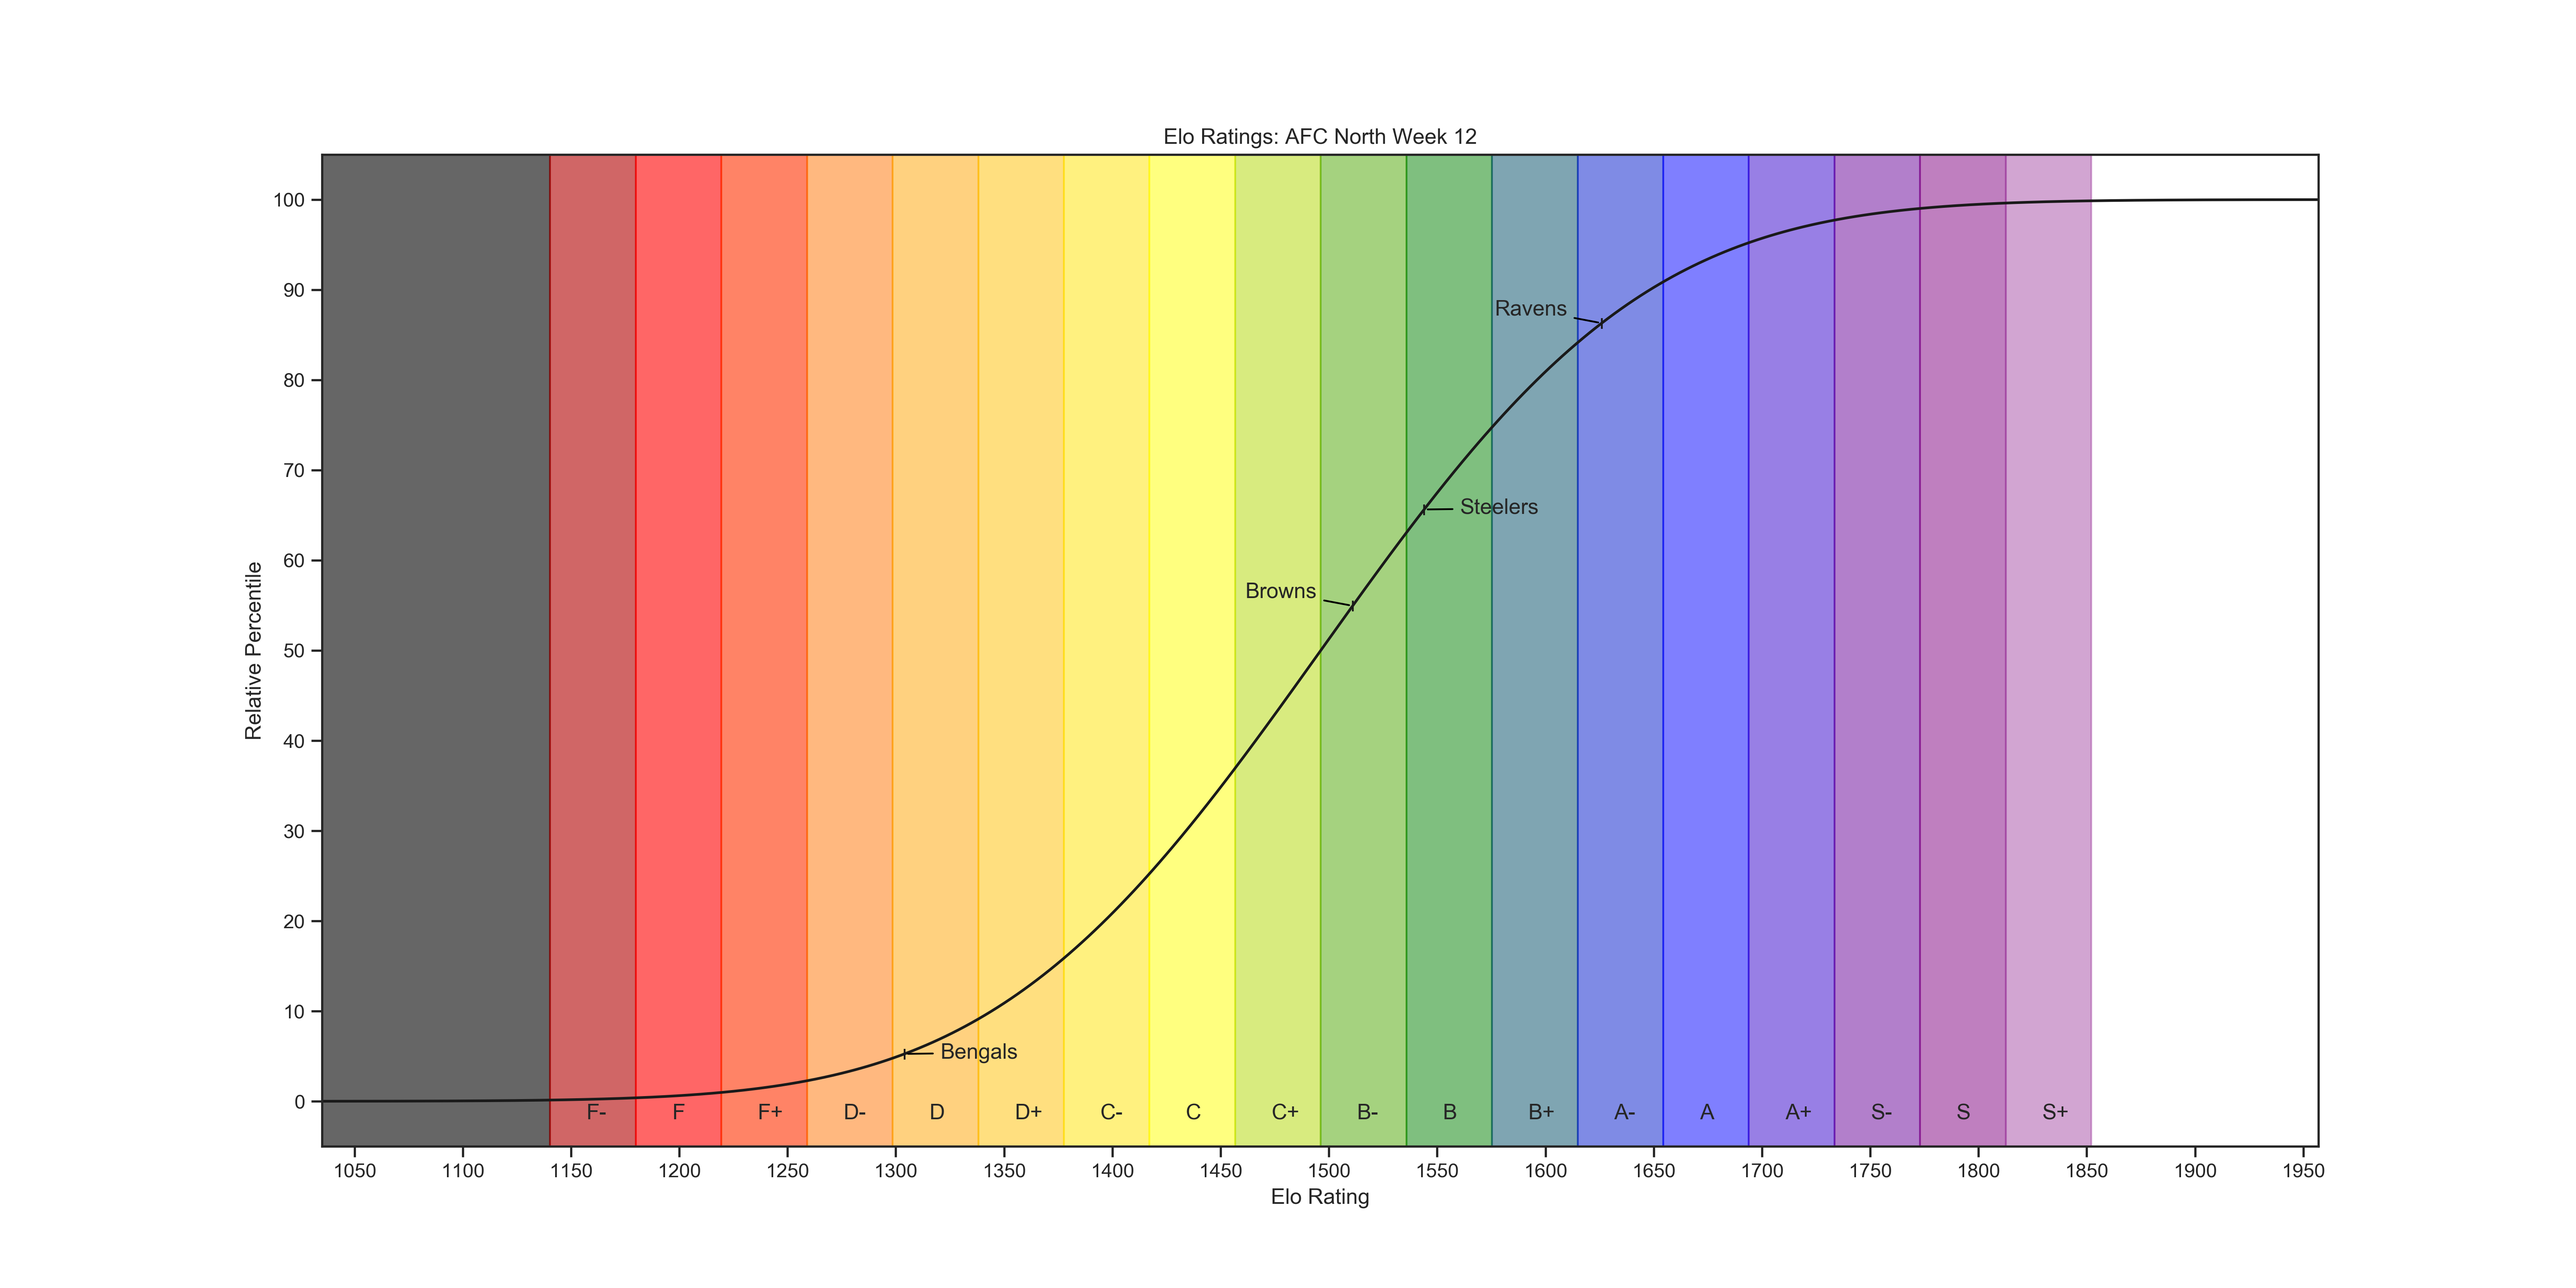
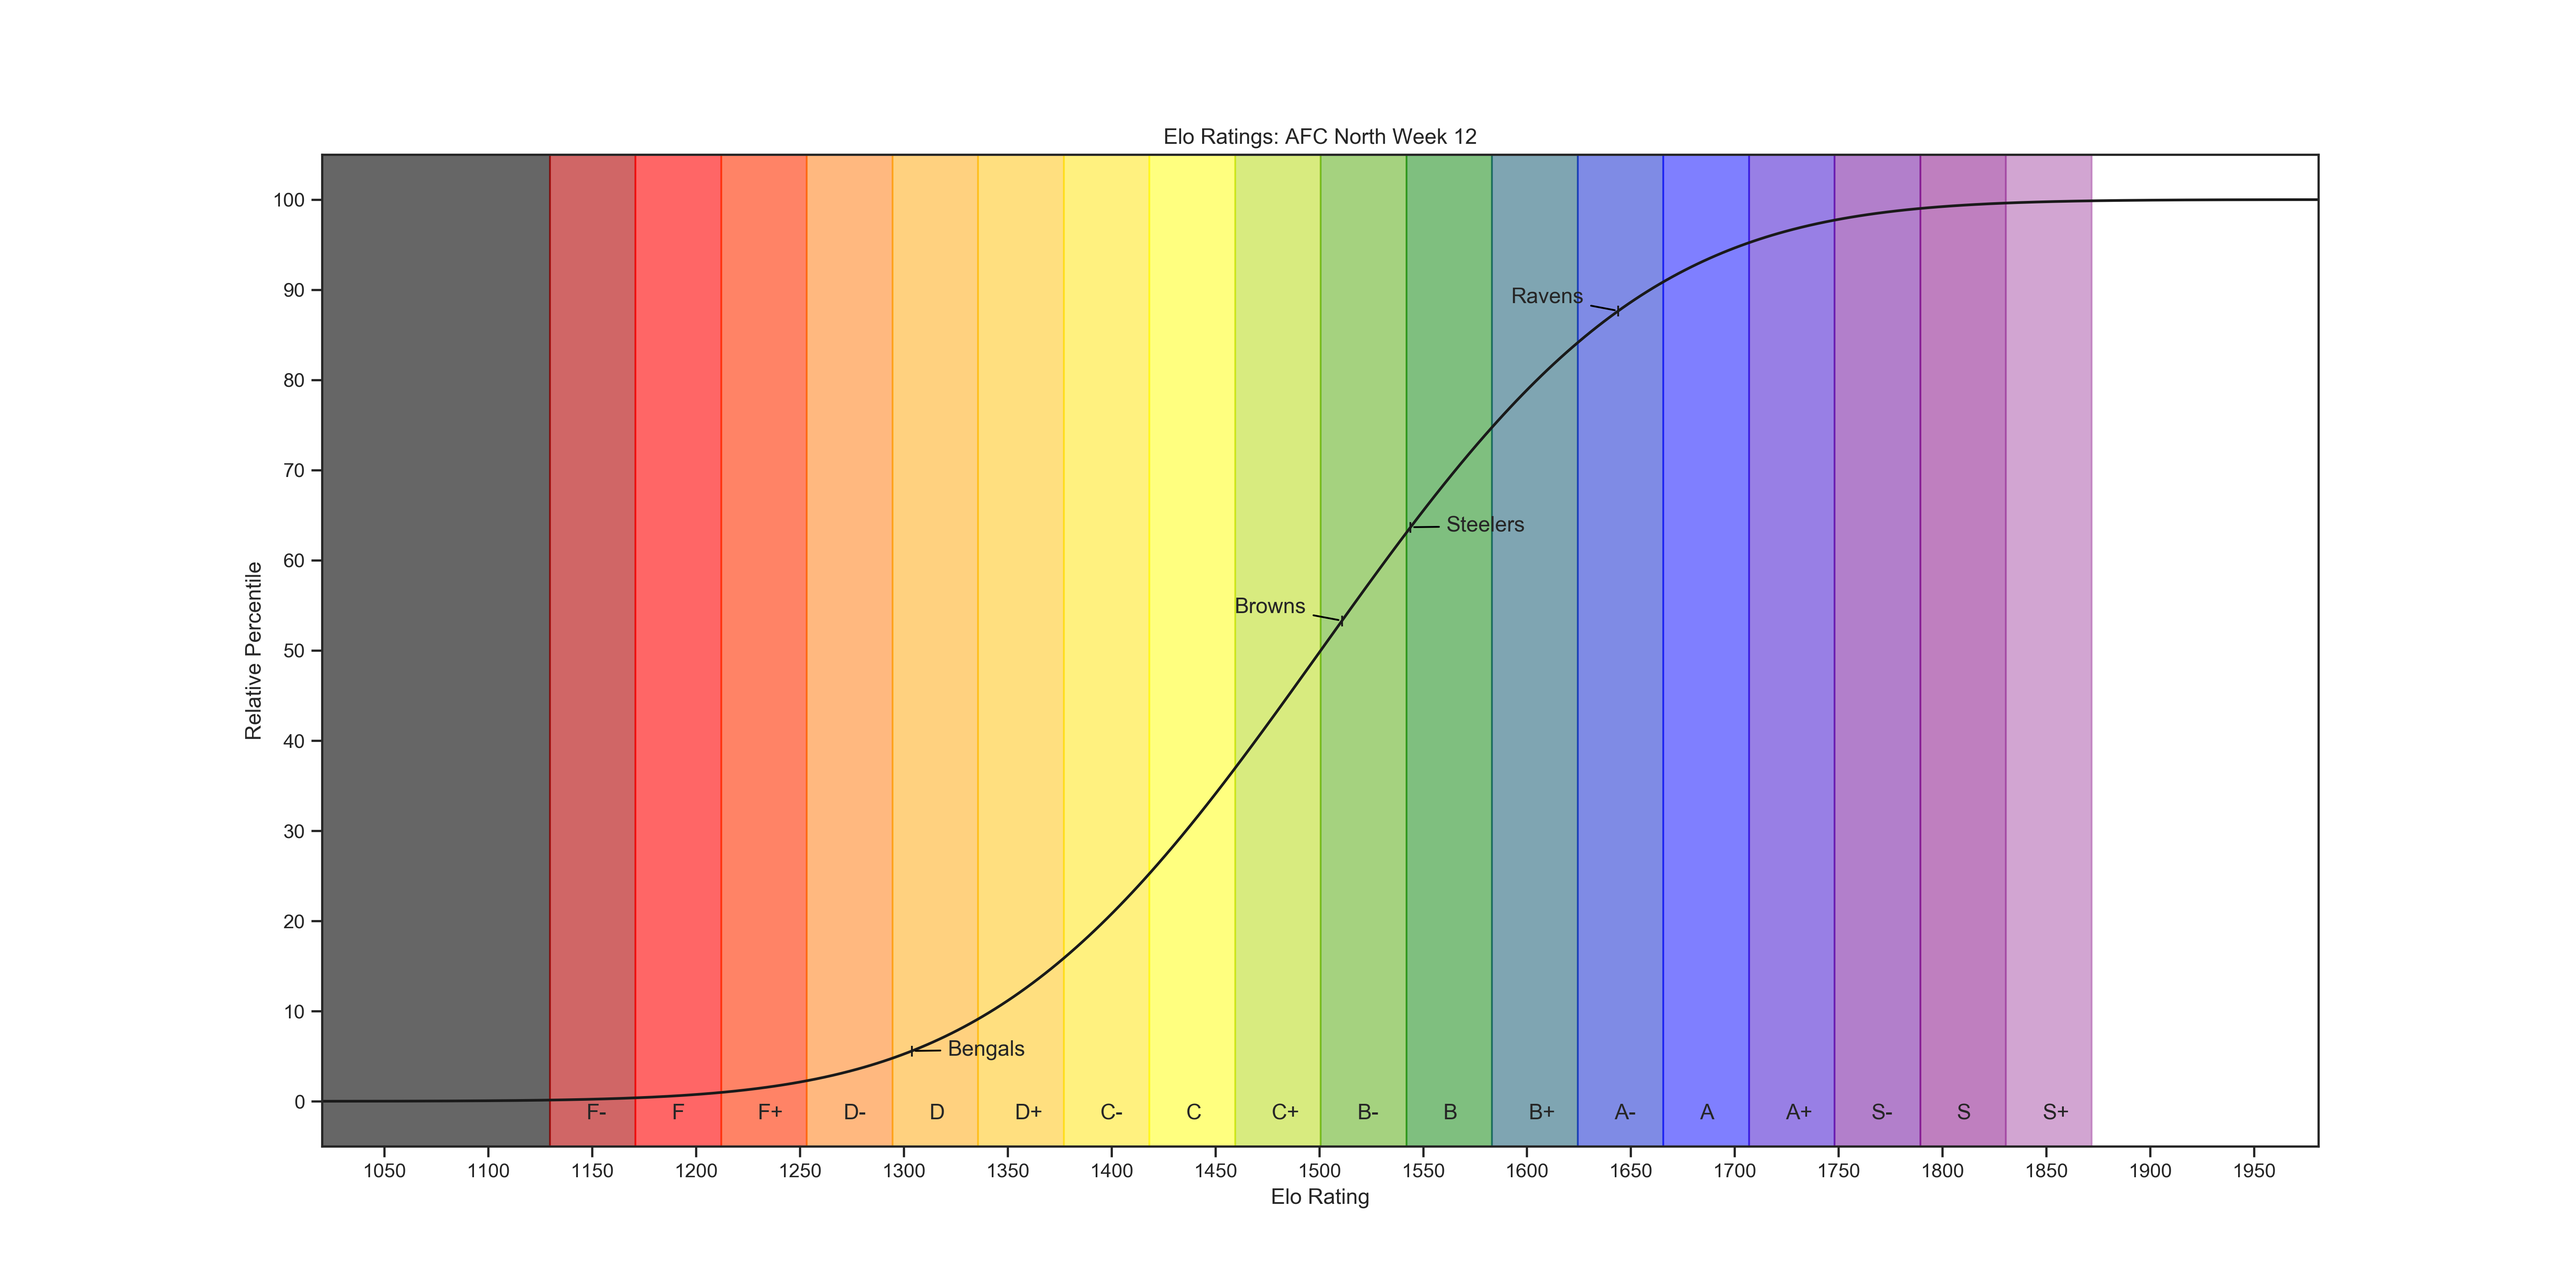
Completed week 12

diff --git a/NFLSeason2019.py b/NFLSeason2019.py
@@ -1203,9 +1203,9 @@ def week_12(teams, week_end_date, week=12):
                              '49ers', 37, 4, 227, 14, 20, 2, 0, 339,
                              'Packers', 8, 1, 81, 23, 37, 1, 0, 198)
 
-    # teams = set_game_outcome(teams, week, 0,
-    #                          'Rams', 0, 0, 0, 0, 0, 0, 0, 0,
-    #                          'Ravens', 0, 0, 0, 0, 0, 0, 0, 0)
+    teams = set_game_outcome(teams, week, 3,
+                             'Rams', 6, 0, 199, 26, 37, 0, 2, 221,
+                             'Ravens', 35, 6, 195, 16, 23, 5, 0, 480)
 
     return teams
 

diff --git a/PlayoffHelper.py b/PlayoffHelper.py
@@ -632,7 +632,7 @@ def get_superbowl_schedule(week_end_date, get_odds=True):
     return games
 
 
-def monte_carlo(teams, trials=1e4, verbose=False):
+def monte_carlo(teams, trials=1e3, verbose=False):
     """
     Simulates each game outcome based on every team's elo after every game.  Process is repeated a high number of times
     to determine each teams probable final record and playoff standing.
